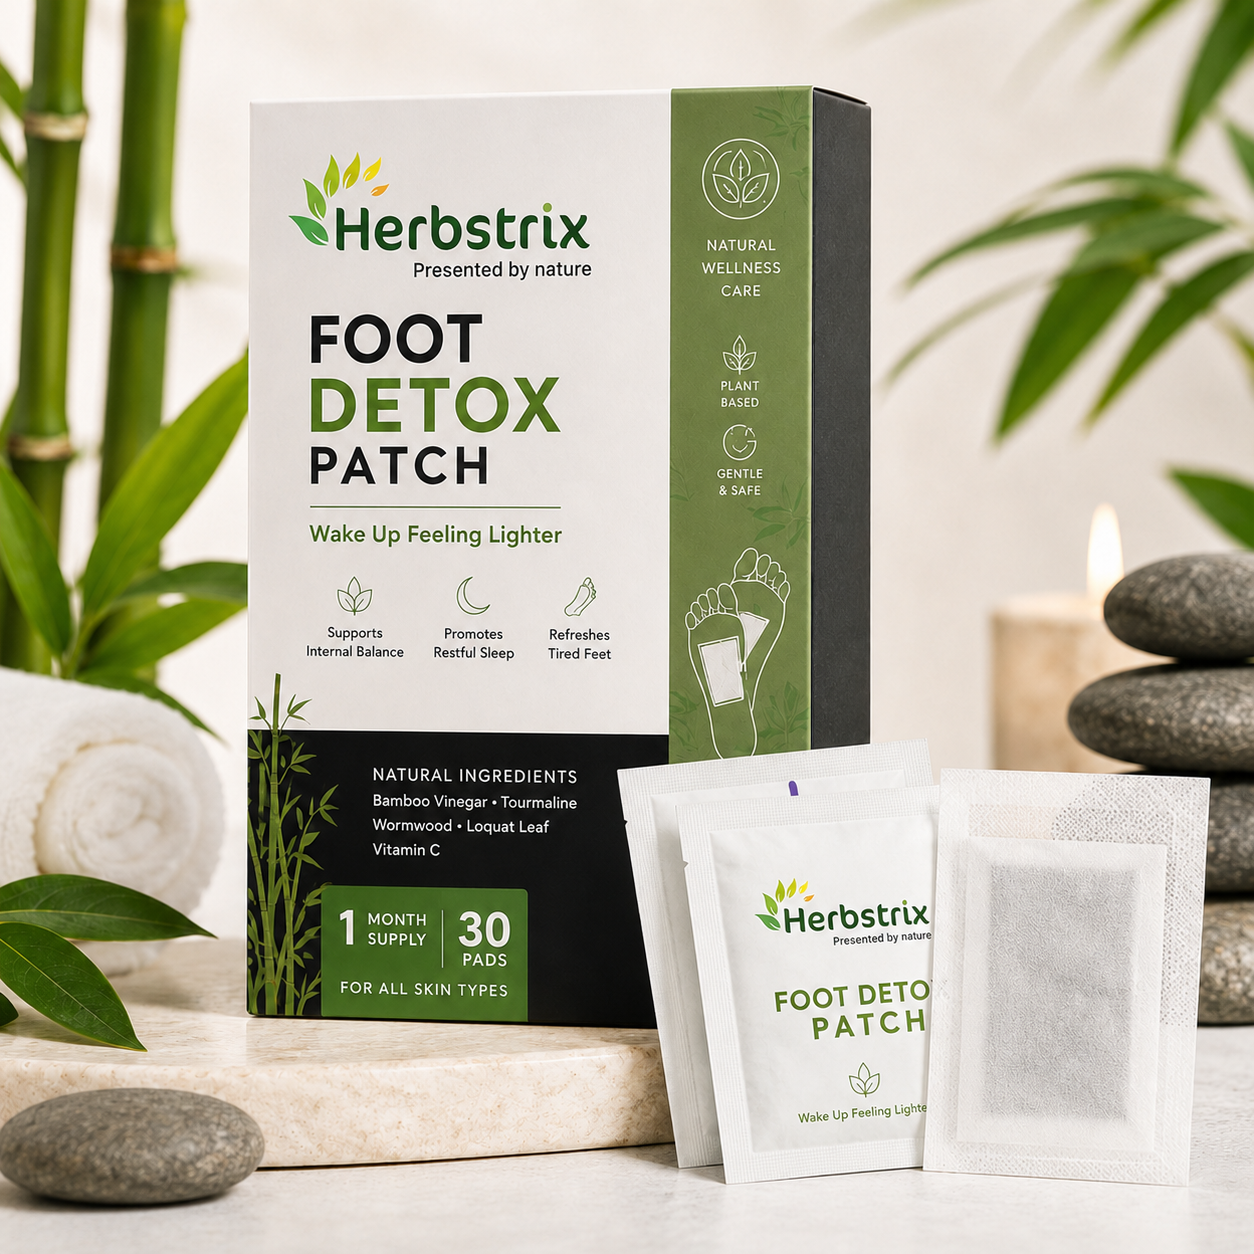
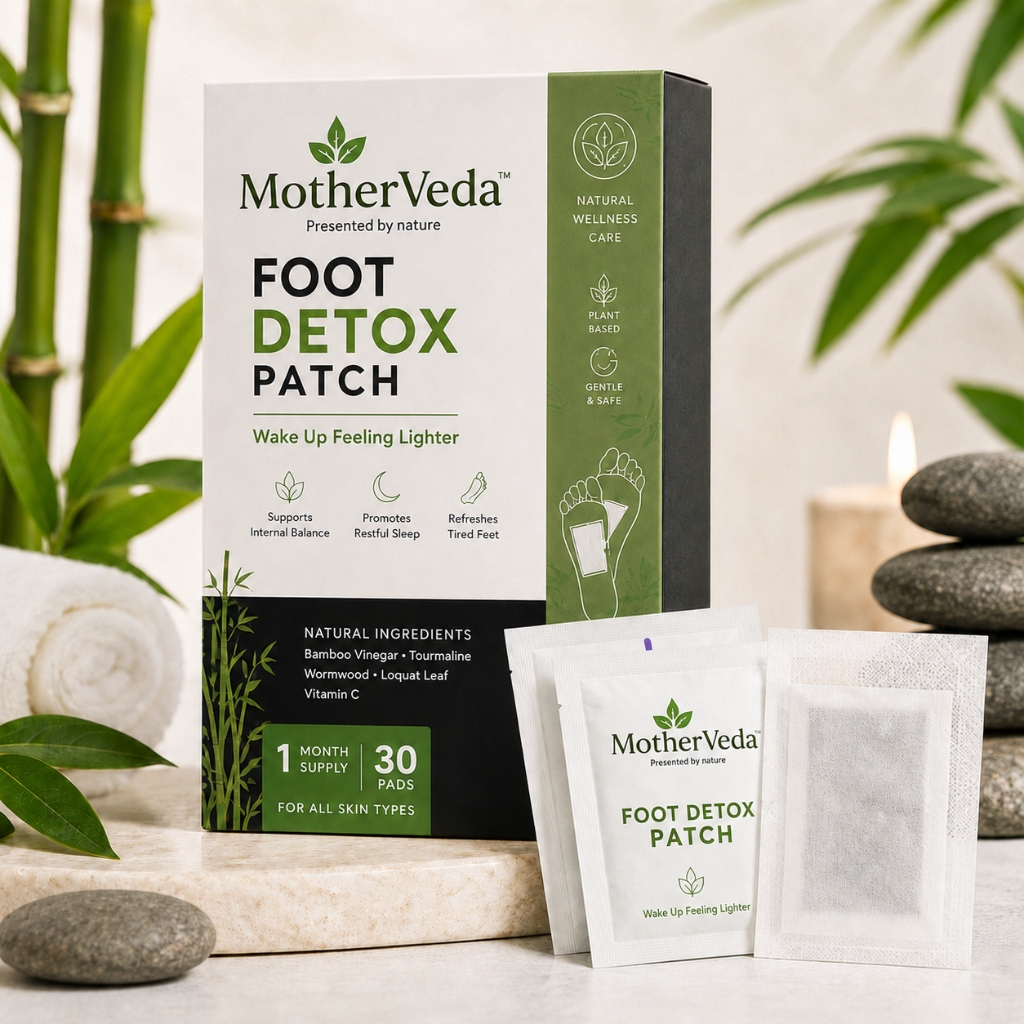
added

diff --git a/src/routes/index.tsx b/src/routes/index.tsx
@@ -1,7 +1,7 @@
 import { createFileRoute } from "@tanstack/react-router";
 import { useState, useEffect } from "react";
 import { submitLead } from "@/lib/actions";
-import logo from "@/assets/macherbs-logo.png";
+import logo from "@/assets/motherveda-logo.png";
 import heroImg from "@/assets/hero-transformation.jpg";
 import detoxDemoImg from "@/assets/detox-patch-demo.jpg";
 import productBoxImg from "@/assets/product-box.png";
